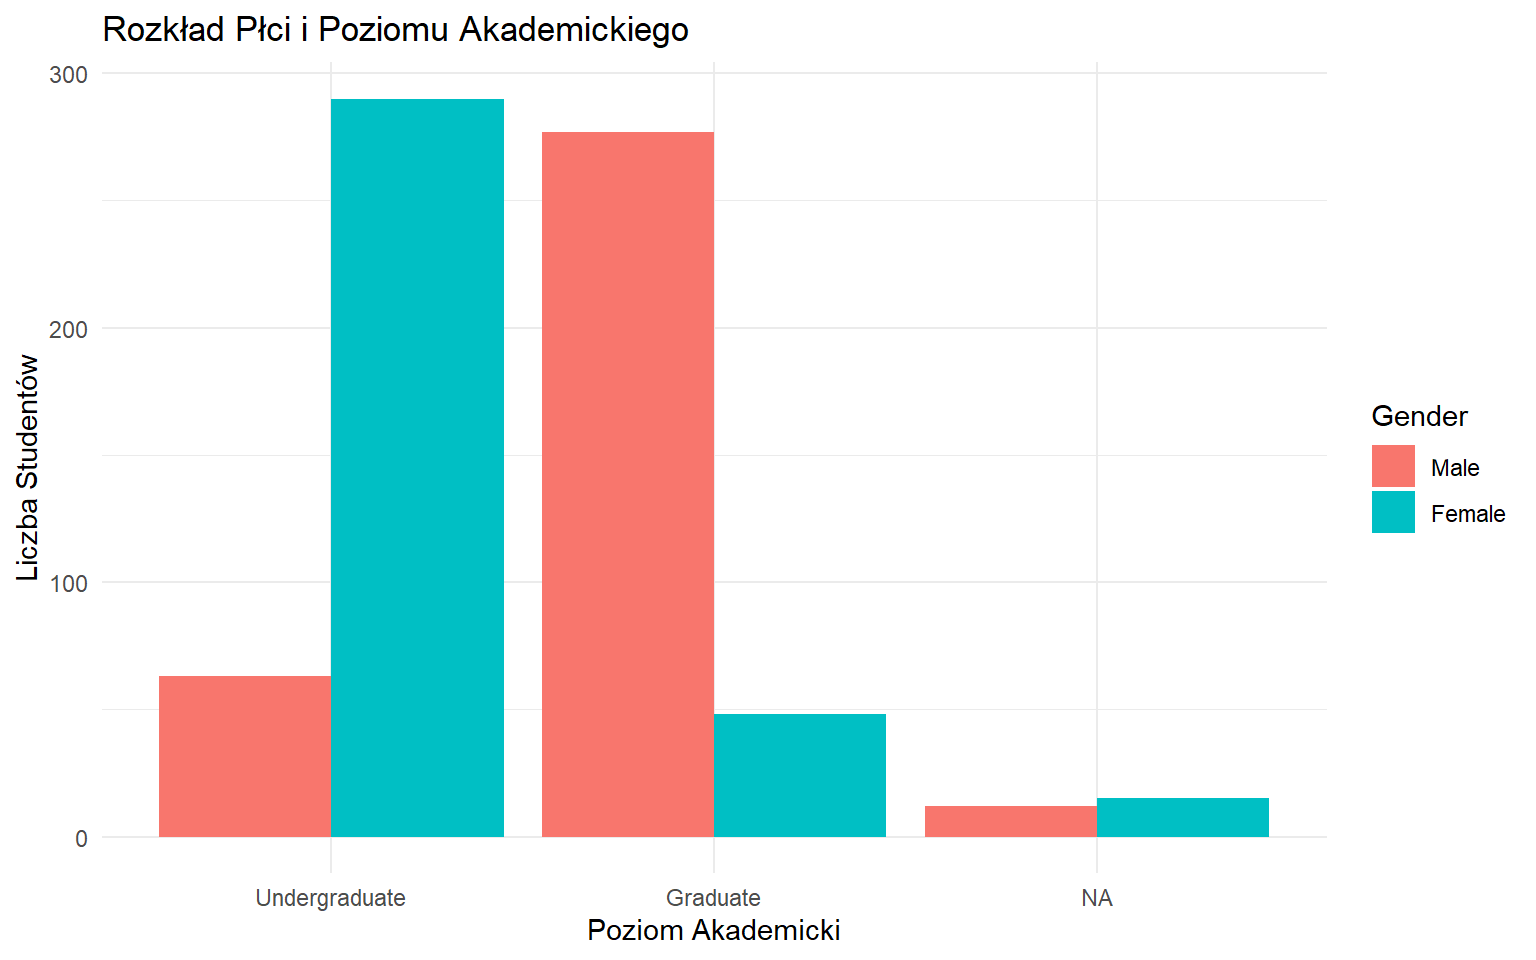
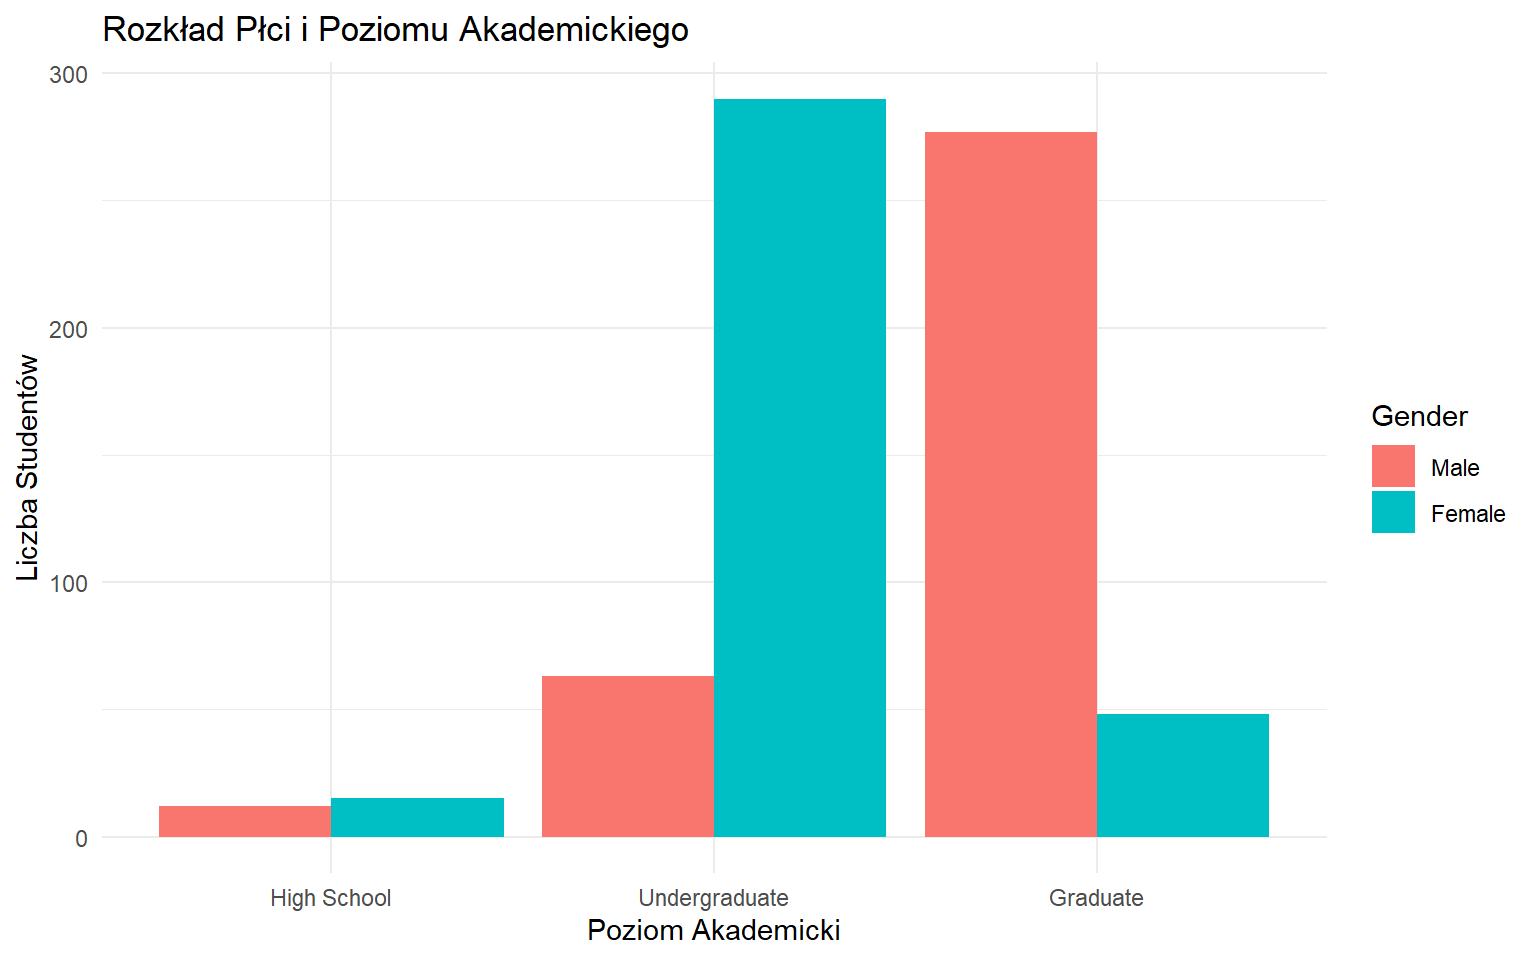
zmiana school na School

diff --git a/Raport.html b/Raport.html
@@ -7,7 +7,7 @@
 
         <meta name="author" content="Medard Pikul, Hanna Móżdżyńska, Zośka Stasiak, Marta Rutkowska" />
     
-        <meta name="date" content="2025-12-07" />
+        <meta name="date" content="2025-12-17" />
     
     <title>Wpływ Social Media na życia studentów</title>
 
@@ -1378,7 +1378,7 @@ studentów</a></h2>
     <div id="postamble" data-toggle="wy-nav-shift" class="status">
                   <p class="author"><span class="glyphicon glyphicon-user"></span> Medard
 Pikul, Hanna Móżdżyńska, Zośka Stasiak, Marta Rutkowska</p>
-                        <p class="date"><span class="glyphicon glyphicon-calendar"></span> 2025-12-07</p>
+                        <p class="date"><span class="glyphicon glyphicon-calendar"></span> 2025-12-17</p>
           </div>
    </div>
      
@@ -1448,7 +1448,7 @@ demograficzna badanej grupy studenckiej</h2>
 <h3><span class="header-section-number">3.1.1</span> Rozkład Płci i
 Poziomu Akademickiego</h3>
 <div class="sourceCode" id="cb4"><pre class="sourceCode r"><code class="sourceCode r"><span id="cb4-1"><a href="#cb4-1" tabindex="-1"></a>dane<span class="sc">$</span>Academic_Level <span class="ot">&lt;-</span> <span class="fu">factor</span>(dane<span class="sc">$</span>Academic_Level, </span>
-<span id="cb4-2"><a href="#cb4-2" tabindex="-1"></a>                            <span class="at">levels =</span> <span class="fu">c</span>(<span class="st">&quot;High school&quot;</span>, <span class="st">&quot;Undergraduate&quot;</span>, <span class="st">&quot;Graduate&quot;</span>))</span>
+<span id="cb4-2"><a href="#cb4-2" tabindex="-1"></a>                            <span class="at">levels =</span> <span class="fu">c</span>(<span class="st">&quot;High School&quot;</span>, <span class="st">&quot;Undergraduate&quot;</span>, <span class="st">&quot;Graduate&quot;</span>))</span>
 <span id="cb4-3"><a href="#cb4-3" tabindex="-1"></a>dane<span class="sc">$</span>Gender <span class="ot">&lt;-</span> <span class="fu">factor</span>(dane<span class="sc">$</span>Gender,</span>
 <span id="cb4-4"><a href="#cb4-4" tabindex="-1"></a>                  <span class="at">levels =</span> <span class="fu">c</span>(<span class="st">&quot;Male&quot;</span>, <span class="st">&quot;Female&quot;</span>)</span>
 <span id="cb4-5"><a href="#cb4-5" tabindex="-1"></a>)</span>
@@ -1459,7 +1459,7 @@ Poziomu Akademickiego</h3>
 <span id="cb4-10"><a href="#cb4-10" tabindex="-1"></a>       <span class="at">x =</span> <span class="st">&quot;Poziom Akademicki&quot;</span>,</span>
 <span id="cb4-11"><a href="#cb4-11" tabindex="-1"></a>       <span class="at">y =</span> <span class="st">&quot;Liczba Studentów&quot;</span>) <span class="sc">+</span></span>
 <span id="cb4-12"><a href="#cb4-12" tabindex="-1"></a>  <span class="fu">theme_minimal</span>()</span></code></pre></div>
[2 lines of base64/hex data omitted]
 </div>
 </div>
 </div>
